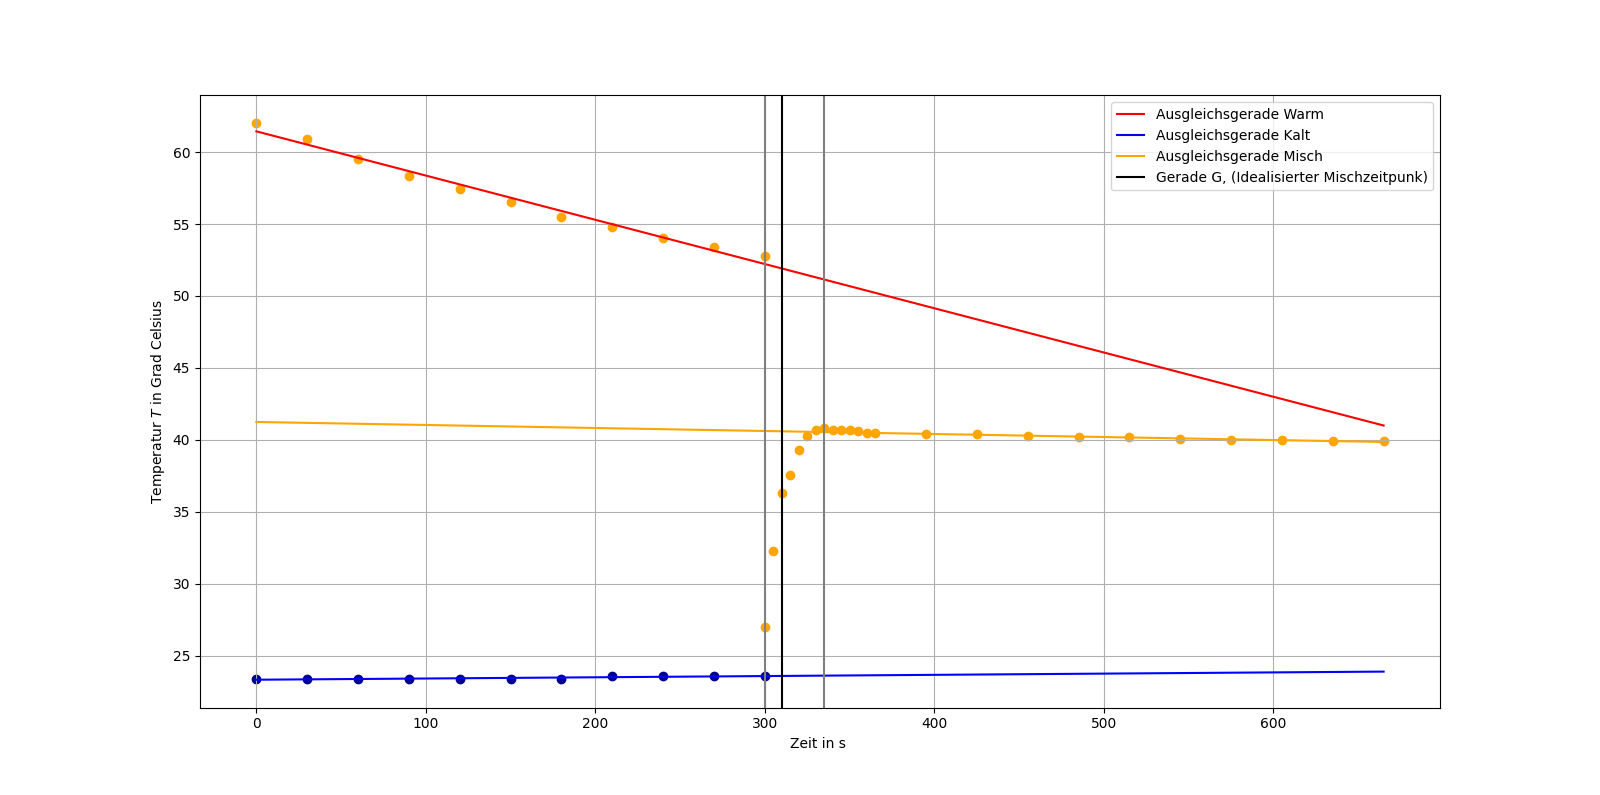
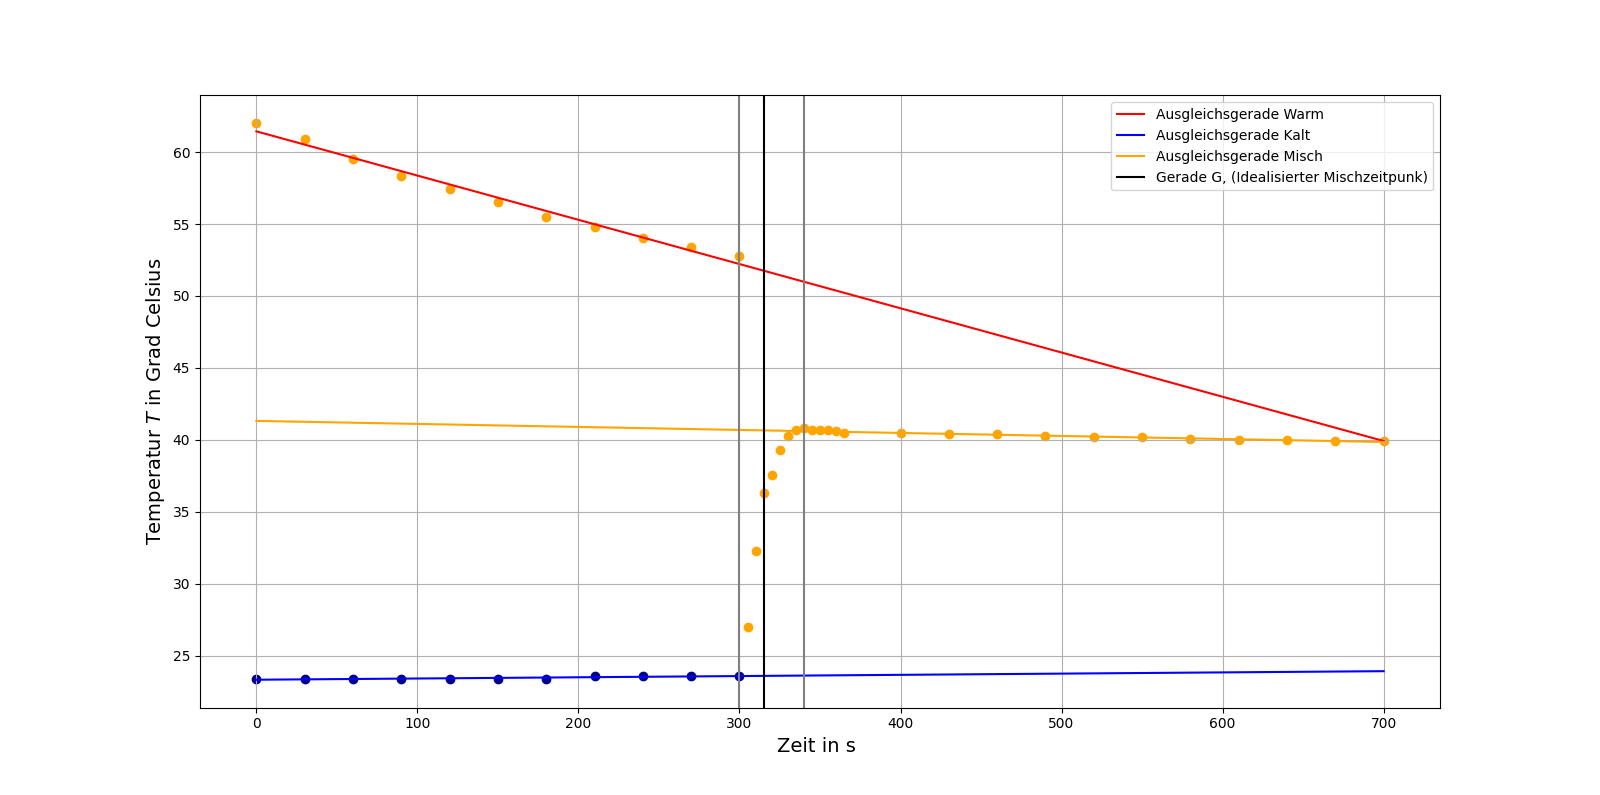
se

diff --git a/AuswertungundDiskussion.tex b/AuswertungundDiskussion.tex
@@ -94,6 +94,89 @@ Daraus ergibt sich nun der Wasserwert des Dewar-Gefäßes für das 60°C warmes 
 
 Die Zwei Wasserwerte sind jeweils in der Fehlerschranke enthalte. Diese ist jedoch unrealistisch hoch. Dies liegt and dem sehr konservativen Fehler für $T_W$, $T_W$ und $T_M$ von $\pm 1$°C bzw $\pm 1,5$°C. Trozdem ist wirkt das ergebniss realistisch da der relativer Fehler der zwei werte  $\frac{\omega_\mathrm{1}}{\omega_\mathrm{2}}$ mit 7,5 \% gering ist.
 
+\subsection{Elektrisches Wärmeäquivalent}
 
+Nun soll das elektrische Wärmeäquivalent bestimmt werden. Dieses ist gleich dem Zahlenwert der spezifischen Wärmekapazität $c_\mathrm{W}$ von Wasser. Dabei wird elektrische Energie, welche durch Gleichung \ref{elektrische energei} gegeben ist, in Wärmeenergie, welche durch Gleichung \ref{wärme energie} gegeben ist, umgewandelt. Kombiniert man beide Gleichungen und stellt nach $c_\mathrm{W}$ um, so ergibt sich
 
+\begin{equation}
+    c_W = \frac{U I \cdot t}{(m + w) T_\Delta}
+    \label{eq:cw}
+\end{equation}
 
+für die spezifische Wärmekapazität und somit auch für das elektrische Wärmeäquivalent. Dabei ist $t$ die Dauer, über die Strom geflossen ist und somit das Wasser erwärmt wurde. $U$ die angelegte Spannung welche fast konstant ist, im folgenden wird der Mittelwert. Gleich wurde mit der Stromstärke $I$ verfahren. Auch Für $\omega$ wurde der Mittelwert der oben errechneten Werte genommen. Der Fehler von $c_\mathrm{W}$ ist dabei durch
+
+\begin{equation}
+\begin{split}
+\Delta c_W &= \pm \left( \left|\frac{\partial c_W}{\partial U}\right|\Delta U + \left|\frac{\partial c_W}{\partial I}\right|\Delta I + \left|\frac{\partial c_W}{\partial m}\right|\Delta m + \left|\frac{\partial c_W}{\partial w}\right|\Delta w + \left|\frac{\partial c_W}{\partial T_\Delta}\right|\Delta T_\Delta \right) \\
+&= \pm \frac{t}{T_\Delta (m + w)} \left( I \cdot \Delta U + U \cdot \Delta I + \frac{U I}{T_\Delta} \cdot \Delta T_\Delta + \frac{U I}{m + w} \cdot (\Delta m + \Delta w) \right)
+\label{eq:cwfehler}
+\end{split}
+\end{equation}
+
+gegeben. Wobei für den Fehler von $\omega$ nicht der oben errechnete Fehler verwendet wurde, sondern die Differenz der beiden errechneten Werte, also $\Delta \omega = 2{,}17\,\mathrm{g}$. Dies liegt daran das der errechnete Fehler als unrealistisch eingestuft wurde. Für die Temperaturdifferenz $\Delta T$ wurde ein weiterer Zwickelabgleich verwendet, dieser ist in Abbildung \ref{bi:zwickelaufgabe2} zu sehen.
+
+\begin{figure}[H]
+    \centering
+    \includegraphics[width=\linewidth, keepaspectratio]{Bilder/Aufgabe2zwickel.png}
+    \caption{Grafische Auswertung des Zwickelabgleichs zur Bestimmung der Temperaturdifferenz $\Delta T$. Die Ausgleichsgeraden wurden mittels \texttt{numpy.polyfit} erstellt. Der ideale Mischzeitpunkt wurde mittels Augenmaß bestimmt.}
+    \label{bi:zwickelaufgabe2}
+\end{figure}
+
+Bei dieser Abbildung ist auffällig, dass die Ausgleichsgerade des kalten Wassers eine positive Steigung hat. Der Grund hierfür ist vermutlich, dass das Dewargefäß noch vom letzten Mischversuch warm war und somit die verbliebene Wärme an das kalte Wasser abgegeben hat. Der Zeitpunkt $t^*$ wurde auf $90\,\mathrm{s}$ geschätzt. Daraus folgen die Temperaturen $T_\mathrm{K} = 24{,}06\,^\circ\mathrm{C}$ und $T_\mathrm{M} = 36{,}86\,^\circ\mathrm{C}$. Woraus $\Delta T = 12,8\,^\circ\mathrm{C}$ folgt.
+
+Da sich oben ein Fehler von $1\,^\circ\mathrm{C}$ als unrealistisch herausgestellt hat, wird hier nun $\Delta T_\mathrm{K} = \Delta T_\mathrm{W} = 0{,}5\,^\circ\mathrm{C}$ verwendet. Mit den Formeln \ref{eq:cw} und \ref{eq:cwfehler} ergibt sich eine spezifische Wärmekapazität von Wasser von
+
+\begin{equation}
+    c_\mathrm{W} = (3{,}41 \pm 0{,}60)\,\frac{\mathrm{J}}{\mathrm{g\,K}} .
+\end{equation}
+
+Der Literaturwert aus \cite{Tipler} ist $4{,}184\,\frac{\mathrm{J}}{\mathrm{g\,K}}$. Somit ist der Literaturwert nicht mehr in der Fehlerschranke enthalten. Außerdem ist der relative Fehler mit $\frac{c_\mathrm{W}}{c_\mathrm{W,L}} = 22{,}7\,\%$ recht hoch. Da hier viele Größen bei der Bestimmung der spezifischen Wärmekapazität eine Rolle spielen, gibt es zahlreiche Fehlerquellen.
+
+Ein Grund könnte sein, dass man, wie in Abbildung \ref{bi:zwickelaufgabe2} zu sehen ist, dass das Dewargefäß mit dem kalten Wasser vermutlich noch Wärme enthält. Da der errechnete Wasserwert davon ausgeht, dass dies nicht der Fall ist, könnte der verwendete Wasserwert hier zu groß sein. Da die spezifische Wärmekapazität indirekt proportional zum Wasserwert ist, könnte dies das zu kleine Ergebnis für die spezifische Wärmekapazität erklären. Zum anderen wurde bei den Temperaturen $T_\mathrm{K}$ und $T_\mathrm{M}$ von einem deutlich kleineren Fehler ausgegangen, was zumindest erklären könnte, warum die Fehlerschranke den Literaturwert nicht beinhaltet. Wie Schon oben hätten mehr Messpunkte zu einem besseren $t^*$ führen können.
+
+\newpage
+\subsection{Molare Wärmekapazität}
+
+Abschließend soll mit dem Ergebnis aus Aufgabe 2 die molare Wärmekapazität $c_{\mathrm{W,mol}}$ bestimmt werden. Diese ist durch
+
+\begin{equation}
+    c_{\mathrm{W, mol}} = c_\mathrm{W} \cdot M
+\end{equation}
+
+gegeben. Der Fehler ist durch
+
+\begin{equation}
+\Delta c_{\mathrm{W,mol}} = \pm \left( \frac{\partial c_{\mathrm{W,mol}}}{\partial c_W} \, \Delta c_\mathrm{W} \right) = \pm M \cdot \Delta c_\mathrm{W}
+\end{equation}
+
+gegeben. Dabei wird der Literaturwert von $M$ als fehlerfrei angesehen. Aus \cite{Tipler} ist die molare Wärmekapazität von Wasser durch
+$c_{\mathrm{W,mol,l}} = 75{,}2\,\mathrm{J\,mol^{-1}\,K^{-1}}$ gegeben. Mit den oben errechneten Werten und einer molaren Masse von $M = 18{,}015\,\mathrm{g\,mol^{-1}}$ aus \cite{crc} ergibt sich für die molare Wärmekapazität
+
+\begin{equation}
+    c_{\mathrm{W, mol}} = (61{,}43 \pm 10{,}81)\,\frac{\mathrm{J}}{\mathrm{mol\,K}} .
+\end{equation}
+
+Dieses Ergebnis enthält, wie bereits oben, den Literaturwert nicht in der Fehlerschranke. Das macht soweit Sinn, das hier nur eine fehlerfreie Konstante dazu multipliziert wurde. Die Fehlerdiskussion entfällt an dieser Stelle, da keine experimentellen Tätigkeiten zur Bestimmung durchgeführt wurden.
+
+Nun soll das soeben bestimmte Ergebnis der molaren Wärmekapazität mithilfe von zwei Gesetzen der Wärmekapazität aus der Thermodynamik eingeordnet werden. Wie bereits in den Grundlagen erläutert, setzt sich nach der Kopp-Neumann-Regel die Wärmekapazität einer chemischen Verbindung aus den Beiträgen der in ihr enthaltenen Elemente zusammen. Die einzelnen Anteile gehen dabei entsprechend ihres Massenanteils im Molekül in die Gesamtwärmekapazität ein. Für Wasser ergibt sich auf diese Weise eine erwartete molare Wärmekapazität von
+
+\[
+c_{W,\mathrm{Kopp}} \approx \SI{75}{\joule\per\mole\per\kelvin}.
+\]
+
+Das experimentell bestimmte Ergebnis stimmt mit diesem Literaturwert gut überein, insbesondere wenn berücksichtigt wird, dass der Wasserwert des verwendeten Kalorimeters möglicherweise leicht überschätzt wurde.
+
+Aus der statistischen Physik ist bekannt, dass die mittlere molare Wärmekapazität eines Systems durch
+
+\[
+c_{\mathrm{mol}} = \frac{f}{2} R
+\]
+
+gegeben ist, wobei $f$ die Anzahl der Freiheitsgrade und $R$ die universelle Gaskonstante bezeichnet. Für Festkörper mit $f = 6$ Freiheitsgraden ergibt sich somit eine molare Wärmekapazität von
+
+\[
+c_{\mathrm{mol}} = 3R \approx \SI{25}{\joule\per\mole\per\kelvin}.
+\]
+
+Dieser Zusammenhang ist als Dulong-Petit-Gesetz bekannt.
+Mit diesem Wert stimmt das experimentelle Ergebnis nicht überein. Dies entspricht jedoch den Erwartungen, da das Dulong-Petit-Gesetz ausschließlich für Festkörper gilt. Da Wasser bei Raumtemperatur keine feste Phase bildet, ist ein direkter Vergleich mit diesem Gesetz nicht sinnvoll.

diff --git a/Zusammenfassung.tex b/Zusammenfassung.tex
@@ -1,1 +1,12 @@
 \section{Zusammenfassung}
+
+Das zentrale Ziel des Versuches, die Bestimmung des elektrischen Wärmeäquivalents, ist teilweise geglückt. Der bestimmte Wert von
+\begin{equation}
+    c_\mathrm{W} = 3{,}41 \,\frac{\mathrm{J}}{\mathrm{g\,K}}
+\end{equation}
+unterscheidet sich deutlich vom Literaturwert, ist aber dennoch in der gleichen Größenordnung. Gleiches gilt für die molare Wärmekapazität. Hier wurde ein Wert von 
+\begin{equation}
+    c_{\mathrm{W, mol}} = 61{,}43
+\end{equation}
+bestimmt. Die Messungen könnten auf mehreren Arten verbessert werden.  
+Zum einen könnten während des Mischvorganges mehr Messungen genommen werden, um somit den Zeitpunkt $t^*$ besser zu bestimmen. Zudem könnten die zwei Flüssigkeiten gleichmäßiger vermischt werden, wozu z. B. ein Rohr verwendet werden könnte, durch welches ein konstanter Wasserfluss erzwingt wird. Des Weiteren könnte stärker gemischt werden, damit sich das warme Wasser gleichmäßiger verteilt. Versehentlich wurde auch eine Messreihe ohne Umrühren durchgeführt, was zu stark unterschiedlichen gemessenen Temperaturen führt. Des Weiteren sollte das Deriviergefäß nach jeder Messung auf den Zustand, den es beim Bestimmen des Wasserwertes hatte, gebracht werden.

diff --git a/Theorie.tex b/Theorie.tex
@@ -4,12 +4,14 @@
 Da Wärme und mechanische Arbeit historisch getrennt waren, ist mit der Einführung von der Energie ein Umrechnungsfakor von Kalorien in Joule von nöten. Dieser Umrechnungsfaktor $x$ wird Wärmeäquivalent gennant. Das Wärmeäquivalent kann mit folgender Gleichung
 \begin{equation}
     W_{el} = U~I~t
+    \label{elektrische energei}
 \end{equation}
 bestimmt werden. Dabei $W_{el}$ die verrichtete Arbeit $U$ die Spannung $I$ der Strom und $t$ die Zeit.
 \\
 Wenn man so ein Gefäß mit Wasser erwärmt ist die aufgenommene Wärme Q gegeben durch
 \begin{equation}
     Q = (mc_W + C)\Delta T
+    \label{wärme energie}
 \end{equation}
 
 Dabei ist $m$ die Masse, $c_W$ Die Wärmekapazität von Wasser und C die Wärmekapazität des Gefäßes und $\Delta T $ die Temperatur des Gefäßes. C wird häufig durch den Wasserwert $w = \frac{C}{c_W}$, dieser gibt an wieviel Wasser die selbe Menge an Wärme aufnehmen kann wie das Gefäß.

diff --git a/Titelblatt.tex b/Titelblatt.tex
@@ -96,11 +96,11 @@
 
 
 
-        {\large \setstretch{2}{Gruppe: \hspace{2,8cm} G 04}}\\ \vspace{0,3cm}   
-    {\large \setstretch{2}{Versuchsdatum: \hspace{1,5cm}\Versuchsdatum}}\\\vspace{0,3cm}
-     {\large \setstretch{2}{Abgabedatum: \hspace{1,65cm}\Abgabedatum}}\\\vspace{1,5cm}
+    {\large \setstretch{2}{Gruppe: \hspace{1,5cm} G 04}}\\ \vspace{1,5cm}   
+    {\large \setstretch{2}{Versuchsdatum: \hspace{1,5cm}\Versuchsdatum}}\\\vspace{1,5cm}
+    {\large \setstretch{2}{Abgabedatum: \hspace{1,5cm}\Abgabedatum}}\\\vspace{1,5cm}
     {\large \setstretch{2}{Gemeinsames Versuchsprotokoll}}\\
-     {\large \setstretch{2}{Ferdinand Frey\\Tom Glaser}}
+    {\large \setstretch{2}{Ferdinand Frey\\Tom Glaser}}
 
 
  %    \begin{minipage}{0.5\textwidth}

diff --git a/Laborbuch(Anhang).tex b/Laborbuch(Anhang).tex
@@ -1,1 +1,17 @@
 \section{Anhang}
+
+\begin{figure}[H]
+    \centering
+    \includegraphics[width=\linewidth, keepaspectratio]{Bilder/Unbase1nannt.jpg}
+    
+\end{figure}
+\begin{figure}[H]
+    \centering
+    \includegraphics[width=\linewidth, keepaspectratio]{Bilder/Unbase221nannt.jpg}
+    
+\end{figure}
+\begin{figure}[H]
+    \centering
+    \includegraphics[width=\linewidth, keepaspectratio]{Bilder/Unbasenannt.jpg}
+    
+\end{figure}
